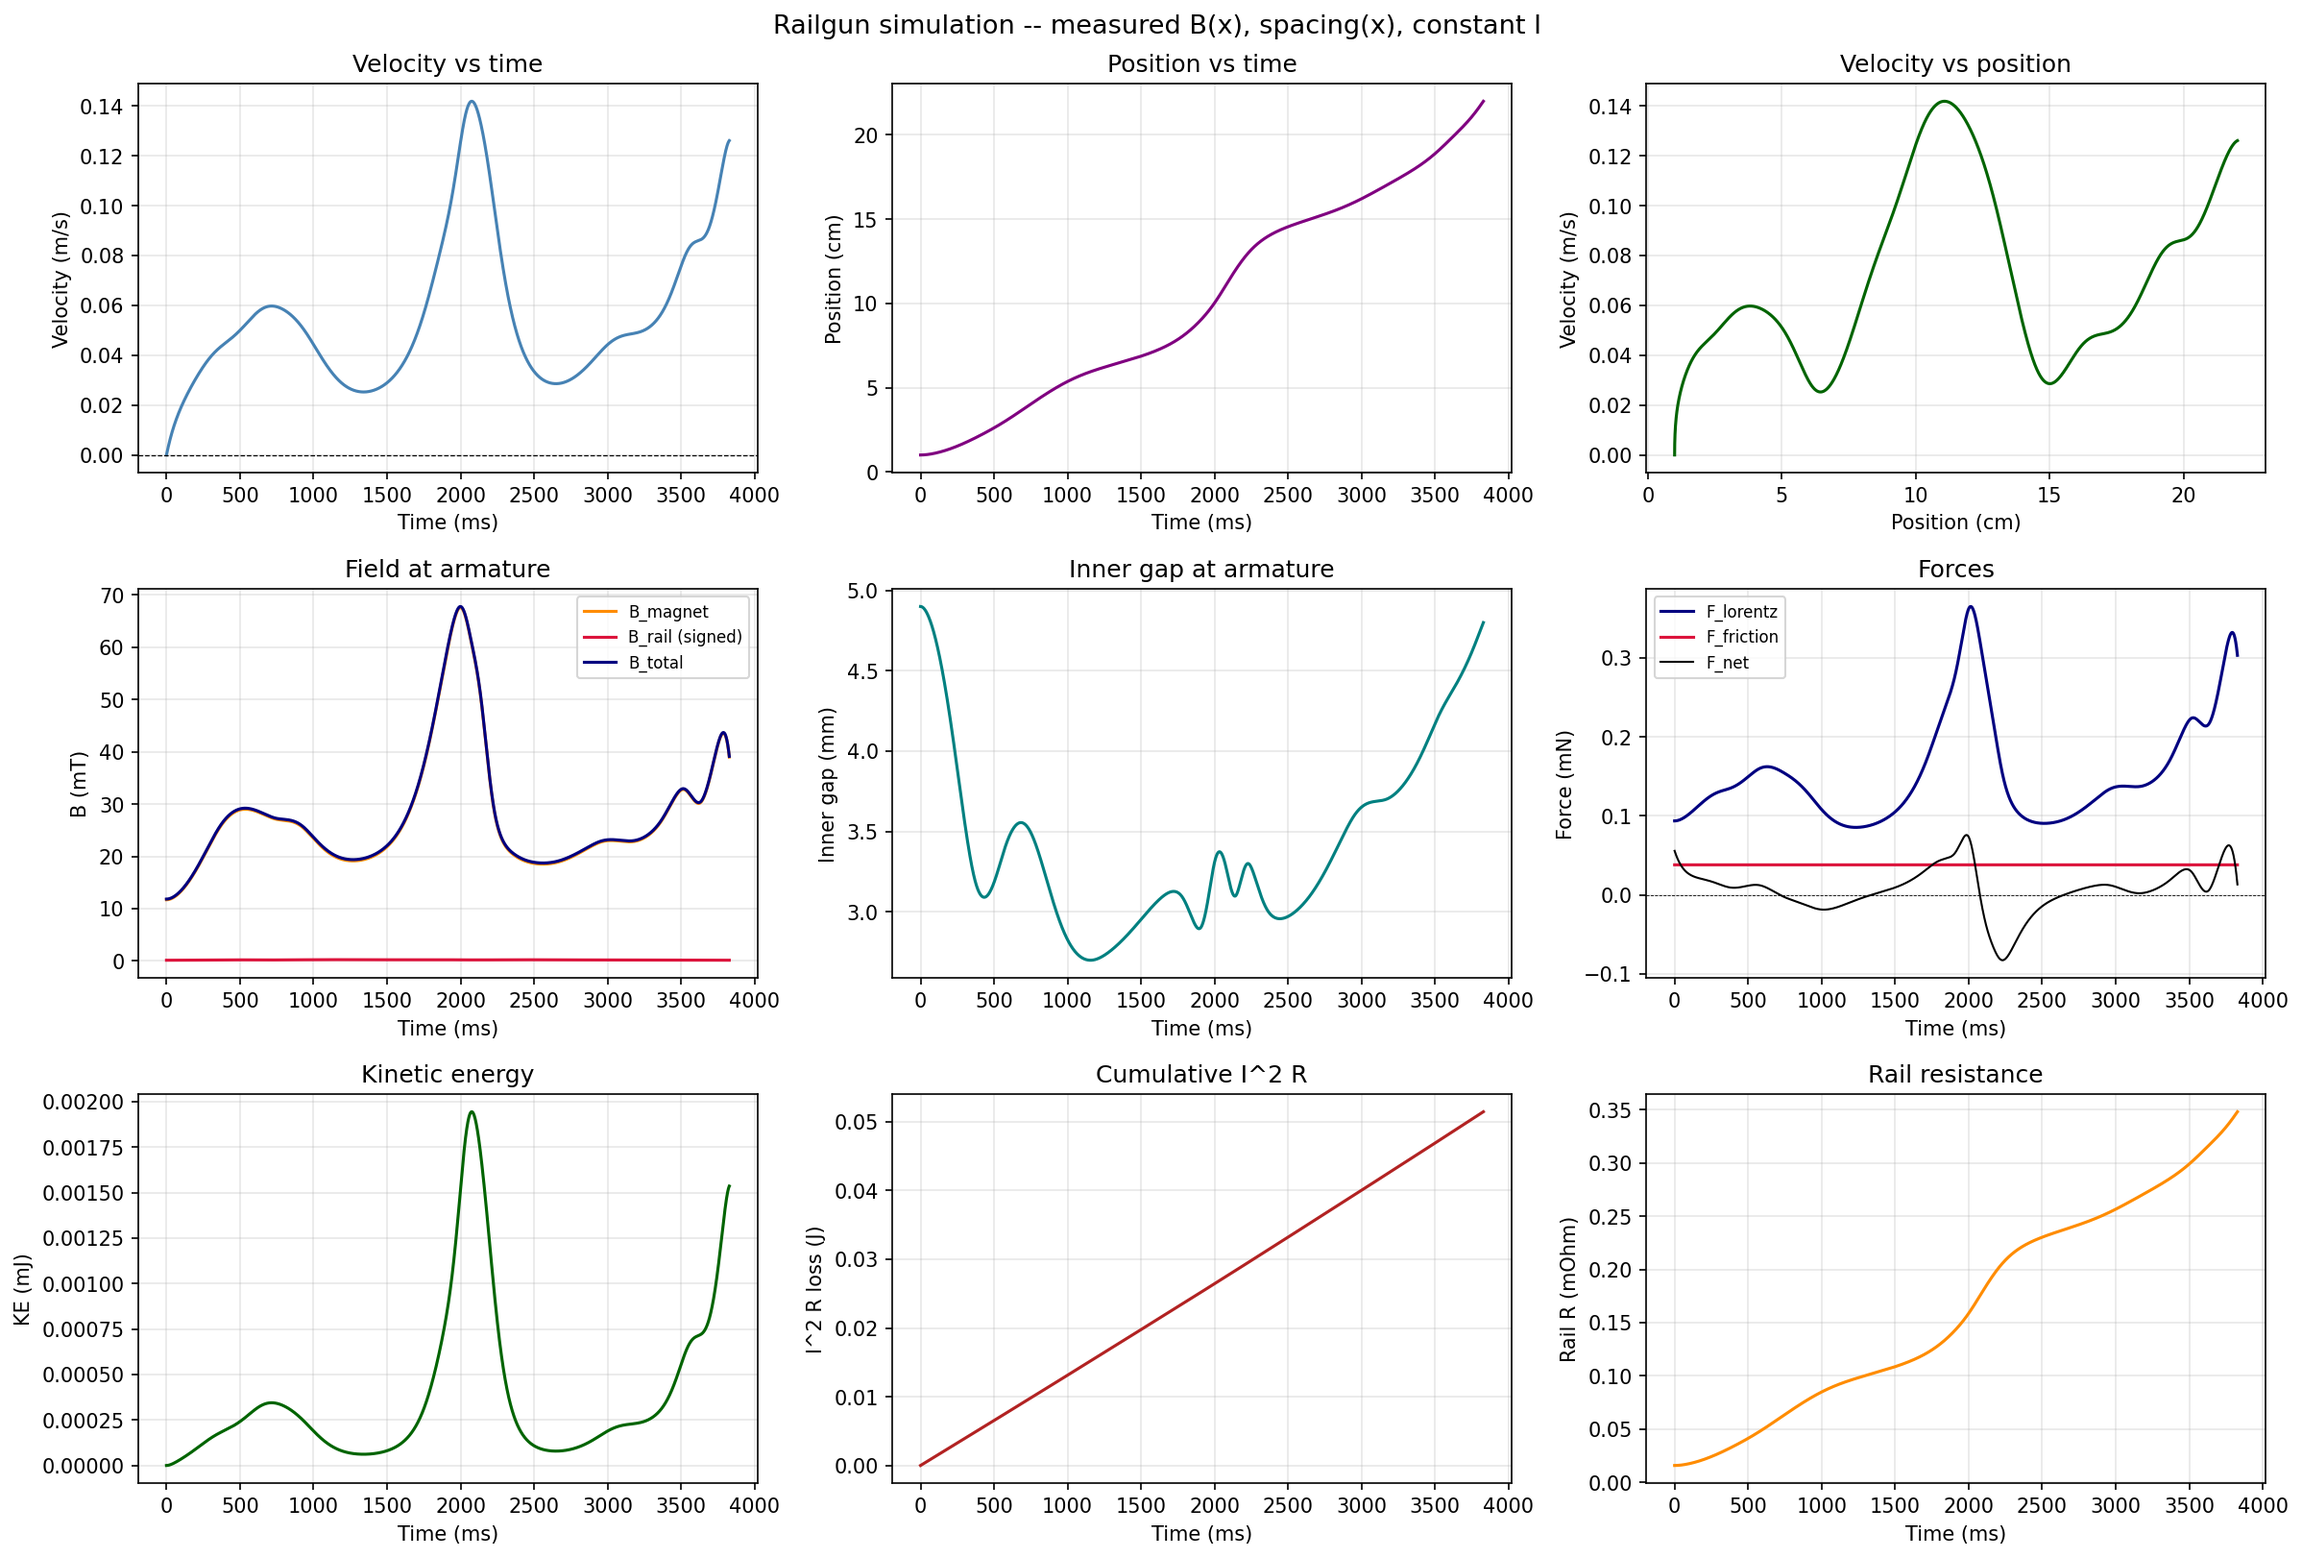
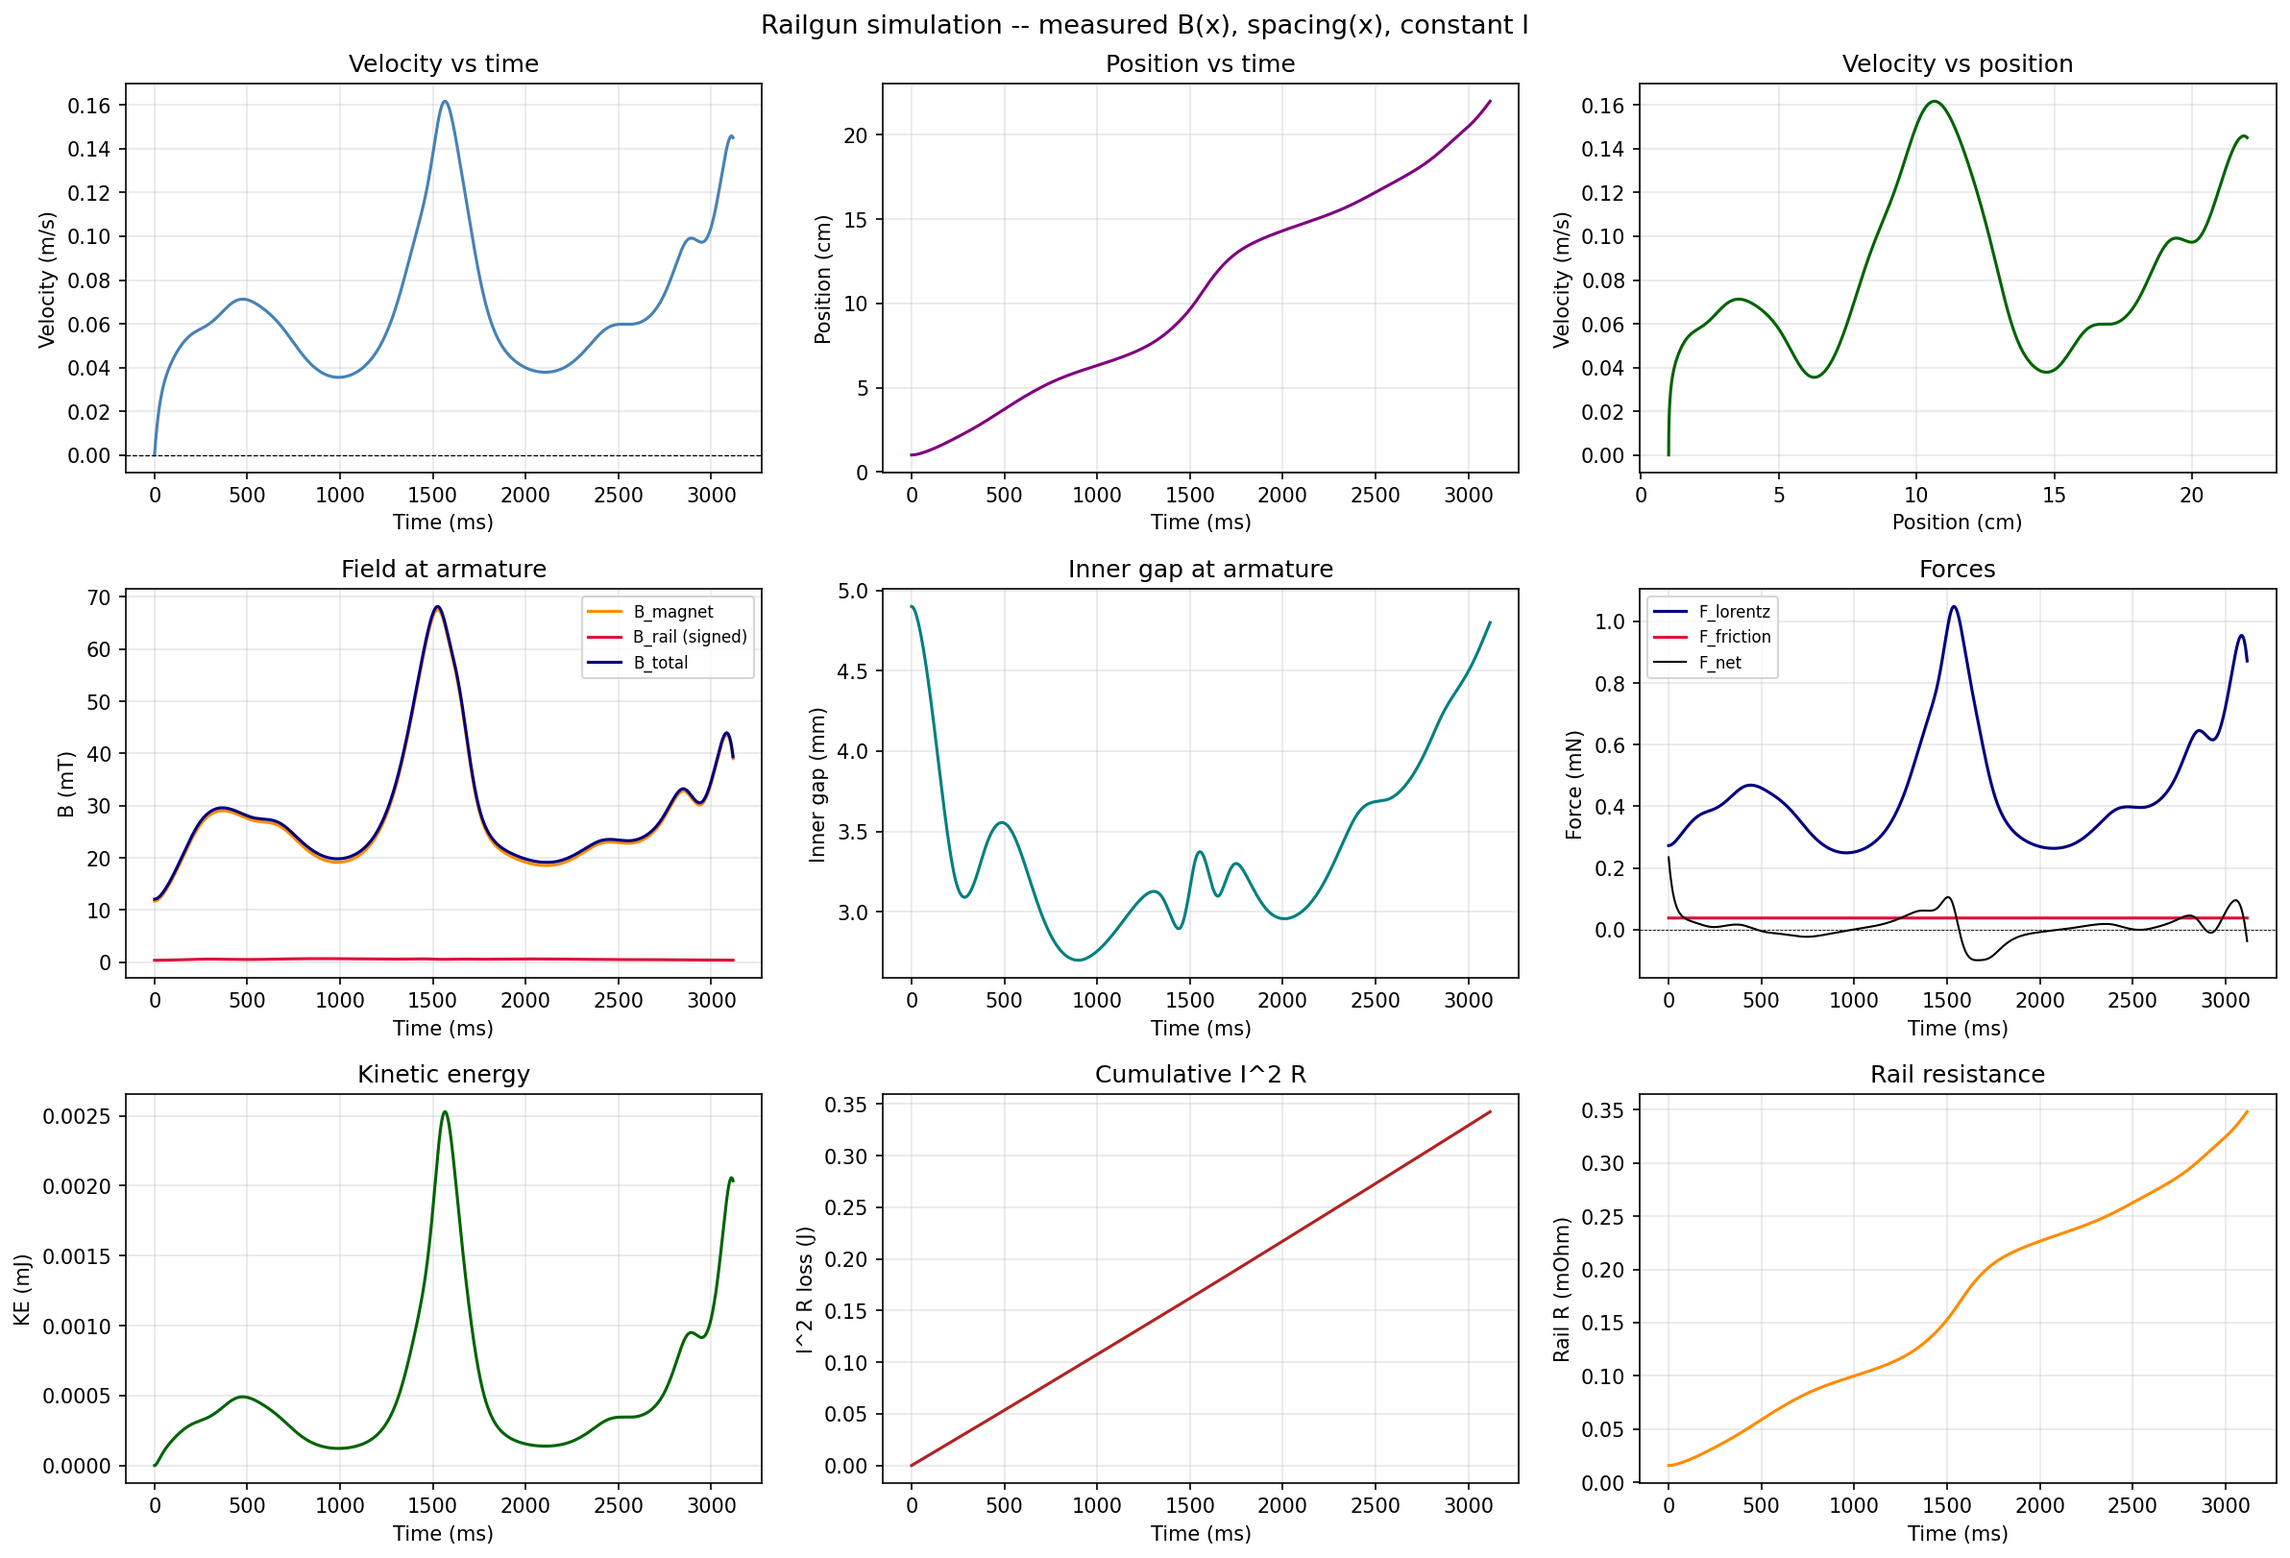
Improved final results

diff --git a/config.py b/config.py
@@ -17,13 +17,10 @@ ARMATURE_CONTACT_LENGTH_M = 0.005
 
 SUPPLY_CURRENT_A = 4.61  # constant amps measured when ball not rolling but connected
 
-#Efficiency of supply current that actually ball has when rolling since the current drops during rolling
-CONTACT_EFFICIENCY = 0.35
-
 FRICTION_COEFFICIENT = 0.02
 
-# Linear drag rolling it cant continue to keep going faster due to wrinkles and rail bends, sets terminal velocity
-DRAG_COEFFICIENT = 0.002
+# Drag from rail bumps and contact losses, caps the top speed. Found from exit velocity
+DRAG_COEFFICIENT = 0.006
 
 
 # when it touches at a tiny spot and the spot acts like resistor

diff --git a/main.py b/main.py
@@ -10,7 +10,6 @@ sys.path.insert(0, os.path.dirname(__file__))
 
 from config import (
     ARMATURE_CONTACT_LENGTH_M,
-    CONTACT_EFFICIENCY,
     CONTACT_RESISTANCE,
     DRAG_COEFFICIENT,
     FRICTION_COEFFICIENT,
@@ -50,7 +49,7 @@ def run_simulation(b_at, gap_at, current=None, mu=None, drag_b=None,
     pos, launch_sign = initial_conditions()
     velocity = 0.0
     if current is None:
-        current = SUPPLY_CURRENT_A * CONTACT_EFFICIENCY
+        current = SUPPLY_CURRENT_A
     if mu is None:
         mu = FRICTION_COEFFICIENT
     if drag_b is None:
